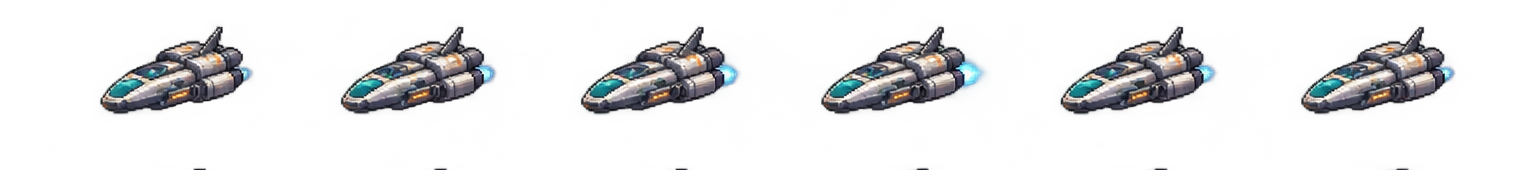
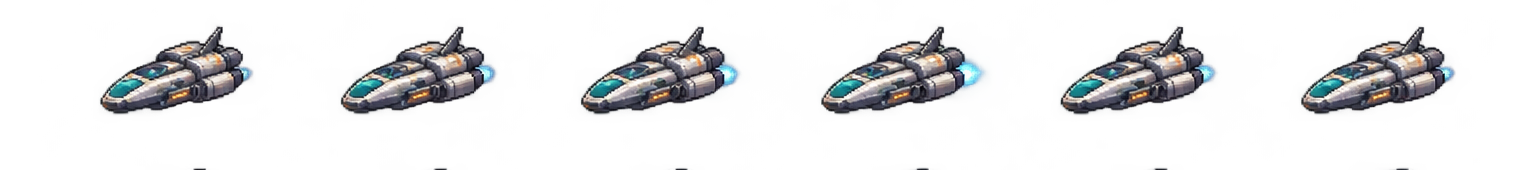
Fix entrance sprite frame dimensions

diff --git a/frontend/public/assets/space/entrada/objetos/README.md b/frontend/public/assets/space/entrada/objetos/README.md
@@ -1,6 +1,6 @@
 # Sprites animados — Entrada V8
 
-Cada PNG é uma spritesheet RGBA horizontal com 6 frames sequenciais. Use `sprites_entrada_v8.json` para os nomes, tamanho dos frames, loop e FPS sugeridos. Cada frame mede 256×170 px; recorte da esquerda para a direita sem interpolação.
+Cada PNG é uma spritesheet RGBA horizontal com 6 frames sequenciais. Use `sprites_entrada_v8.json` para os nomes, tamanho dos frames, loop e FPS sugeridos. Cada frame mede 256×171 px; recorte da esquerda para a direita sem interpolação.
 
 | Arquivo | Animação |
 | --- | --- |
